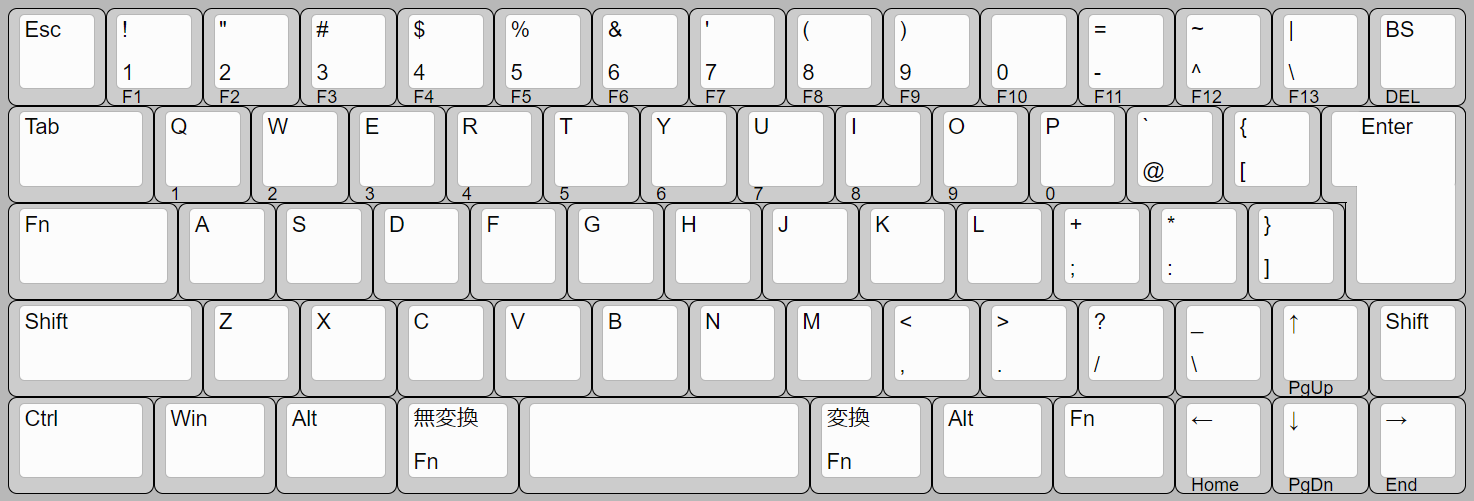
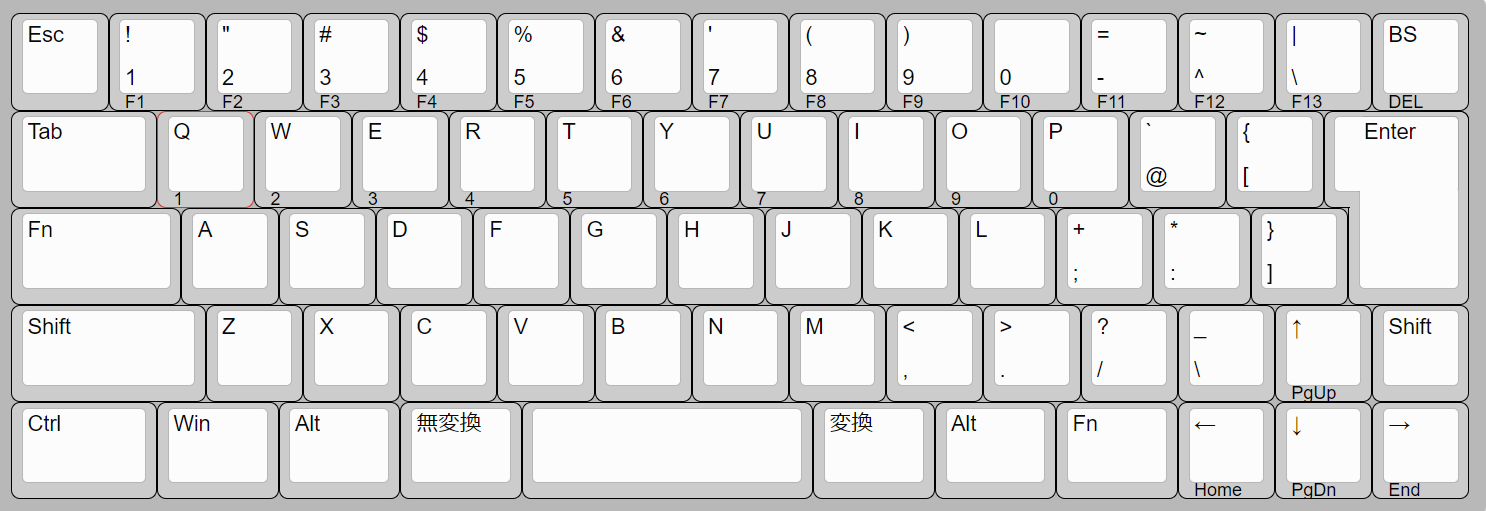
デフォルトキーマップを変更（無変換・変換キーのHoldを削除）

Changed region(s): [[0.0, 0.0, 1.0, 0.988]]

diff --git a/firmware/QMK/keyboards/ymkn/ym60jis/keymaps/default/keymap.c b/firmware/QMK/keyboards/ymkn/ym60jis/keymaps/default/keymap.c
@@ -9,7 +9,7 @@ const uint16_t PROGMEM keymaps[][MATRIX_ROWS][MATRIX_COLS] = {
         KC_TAB,  KC_Q,    KC_W,    KC_E,    KC_R,    KC_T,    KC_Y,    KC_U,    KC_I,           KC_O,    KC_P,    KC_LBRC, KC_RBRC, KC_BSPC,
         MO(1),   KC_A,    KC_S,    KC_D,    KC_F,    KC_G,    KC_H,    KC_J,    KC_K,           KC_L,    KC_SCLN, KC_QUOT, KC_BSLS, KC_ENT,
         KC_LSFT, KC_Z,    KC_X,    KC_C,    KC_V,    KC_B,    KC_N,    KC_M,    KC_COMM,        KC_DOT,  KC_SLSH, KC_INT1, KC_UP,   KC_RSFT,
-        KC_LCTL, KC_LGUI, KC_LALT, LT(1, KC_INT5),   KC_SPC,                    LT(1, KC_INT4), KC_RALT, MO(1),   KC_LEFT, KC_DOWN, KC_RGHT
+        KC_LCTL, KC_LGUI, KC_LALT, KC_INT5,          KC_SPC,                    KC_INT4,        KC_RALT, MO(1),   KC_LEFT, KC_DOWN, KC_RGHT
     ),
     [1] = LAYOUT_ym60jis(
         KC_TRNS, KC_F1,    KC_F2,    KC_F3,    KC_F4,    KC_F5,    KC_F6,    KC_F7,    KC_F8,    KC_F9,    KC_F10,   KC_F11,  KC_F12,  KC_F13,

diff --git a/firmware/QMK/keyboards/ymkn/ym60jis/keymaps/vial/keymap.c b/firmware/QMK/keyboards/ymkn/ym60jis/keymaps/vial/keymap.c
@@ -9,7 +9,7 @@ const uint16_t PROGMEM keymaps[][MATRIX_ROWS][MATRIX_COLS] = {
         KC_TAB,  KC_Q,    KC_W,    KC_E,    KC_R,    KC_T,    KC_Y,    KC_U,    KC_I,           KC_O,    KC_P,    KC_LBRC, KC_RBRC, KC_BSPC,
         MO(1),   KC_A,    KC_S,    KC_D,    KC_F,    KC_G,    KC_H,    KC_J,    KC_K,           KC_L,    KC_SCLN, KC_QUOT, KC_BSLS, KC_ENT,
         KC_LSFT, KC_Z,    KC_X,    KC_C,    KC_V,    KC_B,    KC_N,    KC_M,    KC_COMM,        KC_DOT,  KC_SLSH, KC_INT1, KC_UP,   KC_RSFT,
-        KC_LCTL, KC_LGUI, KC_LALT, LT(1, KC_INT5),   KC_SPC,                    LT(1, KC_INT4), KC_RALT, MO(1),   KC_LEFT, KC_DOWN, KC_RGHT
+        KC_LCTL, KC_LGUI, KC_LALT, KC_INT5,          KC_SPC,                    KC_INT4,        KC_RALT, MO(1),   KC_LEFT, KC_DOWN, KC_RGHT
     ),
     [1] = LAYOUT_ym60jis(
         KC_TRNS, KC_F1,    KC_F2,    KC_F3,    KC_F4,    KC_F5,    KC_F6,    KC_F7,    KC_F8,    KC_F9,    KC_F10,   KC_F11,  KC_F12,  KC_F13,
